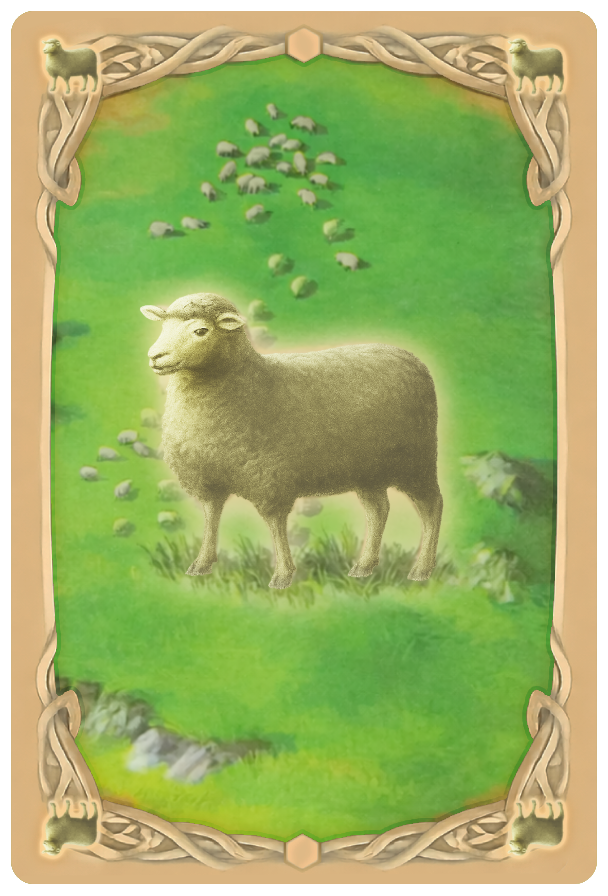
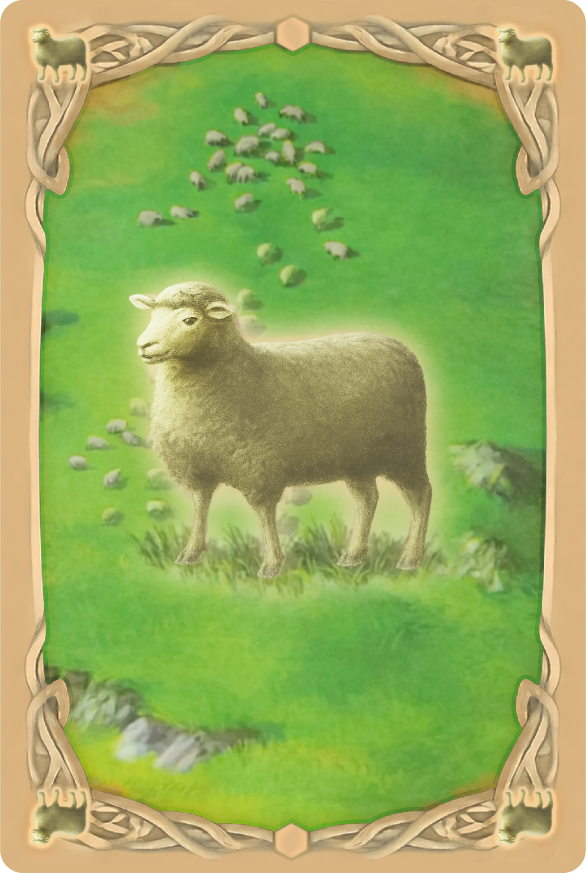
Complete the transition from sprite-based assets to individual `.webp` files. - Removed `card-legacy.css` and old sprite-based references. - Updated aspect ratios and simplified card styles in `card.css`. - Added final art assets for cards and backs, updated preload links. - Adjusted `VISUAL.cards()
- First steps into new UI Coherence

diff --git a/public/css/ui/card.css b/public/css/ui/card.css
@@ -6,14 +6,14 @@
  * --card-w is the only size knob: height, radius, border and shadow derive from it.
  * Never set height, background-size or background-position on a card outside ui/card*.css.
  *
- * Adding final art: drop the 608x896 PNG in /images/cards, run scripts/cards-to-webp.sh, add its
- * --card-img line below and delete its entry in card-legacy.css.
+ * Changing art: replace the 586x873 PNG in /images/cards and run scripts/cards-to-webp.sh.
  */
 .card {
     --card-w: 5.25rem;
     --card-pos: center;
+    --card-back-img: url(/images/cards/res-back.webp);
     width: var(--card-w);
-    aspect-ratio: 19 / 28;
+    aspect-ratio: 586 / 873;
     flex-shrink: 0;
     box-sizing: border-box;
     border-radius: calc(var(--card-w) * .075);
@@ -22,13 +22,12 @@
 }
 
 /*
- * The face. Exports carry a ~2% transparent margin, 104% bleeds it off.
- * --legacy-* only exist for sprite cards (card-legacy.css); unset, the fallbacks apply.
+ * The face. Exports are cropped to the art (586x873, same ratio as the box), so 100% fits exactly.
  */
 .card:not(.card--under, .card--flip),
 .card--under::before,
 .card--flip .card-front::before {
-    background: var(--card-face) var(--card-img) var(--legacy-pos, var(--card-pos)) / var(--legacy-size, 104%) no-repeat;
+    background: var(--card-face) var(--card-img) var(--card-pos) / 100% no-repeat;
 }
 
 /* Sizes */
@@ -60,18 +59,17 @@
 
 /* Half cards: the trade drawer splits one card into a giving (top) and a taking (bottom) half */
 .card--top, .card--bottom {
-    aspect-ratio: 19 / 14;
+    aspect-ratio: 1172 / 873;
 }
 
 .card--top {
-    --card-pos: center 3.5%;
+    --card-pos: center top;
     border-bottom-left-radius: 0;
     border-bottom-right-radius: 0;
 }
 
 .card--bottom {
-    --card-pos: center 96.5%;
-    --card-half: calc(14 / 19);
+    --card-pos: center bottom;
     border-top-left-radius: 0;
     border-top-right-radius: 0;
 }
@@ -101,9 +99,28 @@
 
     .card-back {
         transform: rotateY(180deg);
-        background: var(--card-face) var(--card-back-img) center / 106.6% no-repeat;
+        background: var(--card-face) var(--card-back-img) center / 100% no-repeat;
     }
 }
 
-/* Faces with final art */
+/* Faces */
 .card:is([data-card="S"], [data-type="S"]) { --card-img: url(/images/cards/sheep.webp); }
+.card:is([data-card="L"], [data-type="L"]) { --card-img: url(/images/cards/lumber.webp); }
+.card:is([data-card="B"], [data-type="B"]) { --card-img: url(/images/cards/brick.webp); }
+.card:is([data-card="O"], [data-type="O"]) { --card-img: url(/images/cards/ore.webp); }
+.card:is([data-card="W"], [data-type="W"]) { --card-img: url(/images/cards/wheat.webp); }
+.card:is([data-card="dK"], [data-type="dK"]) { --card-img: url(/images/cards/knight.webp); }
+.card:is([data-card="dR"], [data-type="dR"]) { --card-img: url(/images/cards/road-building.webp); }
+.card:is([data-card="dM"], [data-type="dM"]) { --card-img: url(/images/cards/monopoly.webp); }
+.card:is([data-card="dY"], [data-type="dY"]) { --card-img: url(/images/cards/year-of-plenty.webp); }
+/* Five victory-point faces, picked by data-vp; library when unset */
+.card:is([data-card="dVp"], [data-type="dVp"]) { --card-img: url(/images/cards/vp-library.webp); }
+.card:is([data-card="dVp"], [data-type="dVp"])[data-vp="2"] { --card-img: url(/images/cards/vp-market.webp); }
+.card:is([data-card="dVp"], [data-type="dVp"])[data-vp="3"] { --card-img: url(/images/cards/vp-great-hall.webp); }
+.card:is([data-card="dVp"], [data-type="dVp"])[data-vp="4"] { --card-img: url(/images/cards/vp-chapel.webp); }
+.card:is([data-card="dVp"], [data-type="dVp"])[data-vp="5"] { --card-img: url(/images/cards/vp-university.webp); }
+
+/* Backs */
+.card[data-card="res-back"] { --card-img: url(/images/cards/res-back.webp); }
+.card[data-card="dev-back"] { --card-img: url(/images/cards/dev-back.webp); }
+.card:is([data-card^="d"], [data-type^="d"]) { --card-back-img: url(/images/cards/dev-back.webp); }

diff --git a/views/index.html b/views/index.html
@@ -8,8 +8,12 @@
   <link rel="preload" as="font" type="font/woff2" href="/css/fonts/AlegreyaSans-Bold.woff2" crossorigin>
   <!-- Cards seen in the first minute. Add each resource face here as its .webp lands in /images/cards -->
   <link rel="preload" as="image" href="/images/cards/sheep.webp">
-  <link rel="preload" as="image" href="/images/resources-back.png">
-  <link rel="preload" as="image" href="/images/dc-back.png">
+  <link rel="preload" as="image" href="/images/cards/lumber.webp">
+  <link rel="preload" as="image" href="/images/cards/brick.webp">
+  <link rel="preload" as="image" href="/images/cards/ore.webp">
+  <link rel="preload" as="image" href="/images/cards/wheat.webp">
+  <link rel="preload" as="image" href="/images/cards/res-back.webp">
+  <link rel="preload" as="image" href="/images/cards/dev-back.webp">
   <link rel="stylesheet" href="/css/index.css">
   <link rel="shortcut icon" type="image/jpg" href="/images/favicon.png" />
 </head>

diff --git a/public/css/resources.css b/public/css/resources.css
@@ -38,3 +38,14 @@
         width: 15px;
     }
 }
+
+/* Dev-card icons: the middle of the card's illustration, not a card */
+.res-icon:is(.dK, .dM, .dY, .dR, .dVp) {
+    background-size: 250%;
+    background-position: center 34%;
+}
+.res-icon.dK { background-image: url(/images/cards/knight.webp); }
+.res-icon.dR { background-image: url(/images/cards/road-building.webp); }
+.res-icon.dM { background-image: url(/images/cards/monopoly.webp); }
+.res-icon.dY { background-image: url(/images/cards/year-of-plenty.webp); }
+.res-icon.dVp { background-image: url(/images/cards/vp-library.webp); }

diff --git a/tests/visual/fixtures.js b/tests/visual/fixtures.js
@@ -149,8 +149,8 @@
     },
 
     /**
-     * Every visible card: where it is, its box, its ratio (must be 19/28 = 0.679; the trade drawer's
-     * half cards are 19/14 = 1.357) and the image it resolves to. The face is on `::before` for
+     * Every visible card: where it is, its box, its ratio (must be 586/873 = 0.671; the trade drawer's
+     * half cards are 1172/873 = 1.343) and the image it resolves to. The face is on `::before` for
      * `.card--under` and on `.card-front::before` for `.card--flip`.
      */
     cards() {

diff --git a/public/css/index/animations.css b/public/css/index/animations.css
@@ -169,7 +169,7 @@
         .res-icon {
             margin: 0;
 
-            /* Dev-card icons: the art crop lives in ui/card-legacy.css */
+            /* Dev-card icons: the art crop lives in resources.css */
             &.dK, &.dM, &.dY, &.dR, &.dVp {
                 width: 1.875rem;
                 height: 1.875rem;

diff --git a/public/css/index/all-players.css b/public/css/index/all-players.css
@@ -195,7 +195,7 @@
         /* Army / road tiles sit next to the card backs at the same size */
         :is(.largest-army, .longest-road) {
             width: 2rem;
-            aspect-ratio: 19 / 28;
+            aspect-ratio: 586 / 873;
             box-sizing: border-box;
         }
 

diff --git a/public/css/index.css b/public/css/index.css
@@ -1,7 +1,6 @@
 @import './constants.css';
 @import './resources.css';
 @import './ui/primitives.css';
-@import './ui/card-legacy.css';
 @import './ui/card.css';
 @import './index/all-players.css';
 @import './index/board.css';

diff --git a/tests/visual/README.md b/tests/visual/README.md
@@ -63,7 +63,7 @@ returns the hook names and installs `window.VISUAL`; after that one hook per cal
 | `VISUAL.end()` | the end-game modal |
 | `VISUAL.colours()` | the scoreboard and the board pieces swept through all 11 colours |
 | `VISUAL.report()` | every resolved colour as JSON, for `diff` |
-| `VISUAL.cards()` | every visible `.card`: location, box, ratio (19/28 = 0.679) and resolved image |
+| `VISUAL.cards()` | every visible `.card`: location, box, ratio (586/873 = 0.671) and resolved image |
 | `VISUAL.reset()` | reload, back to server state |
 
 `army`, `road` and `end` return promises - `browser_evaluate` awaits them, so the call returns when
